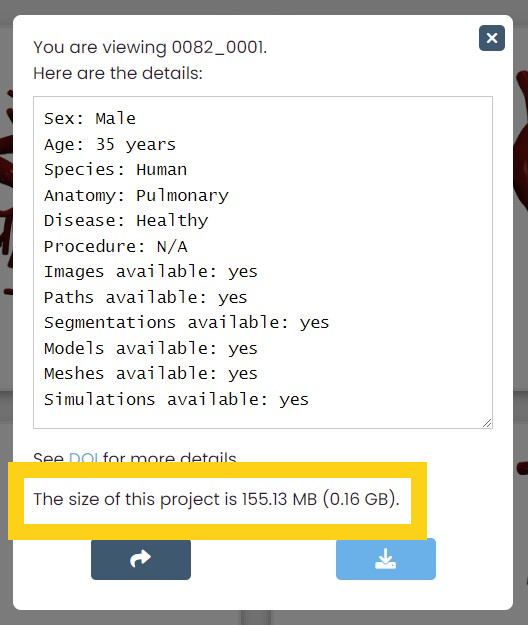
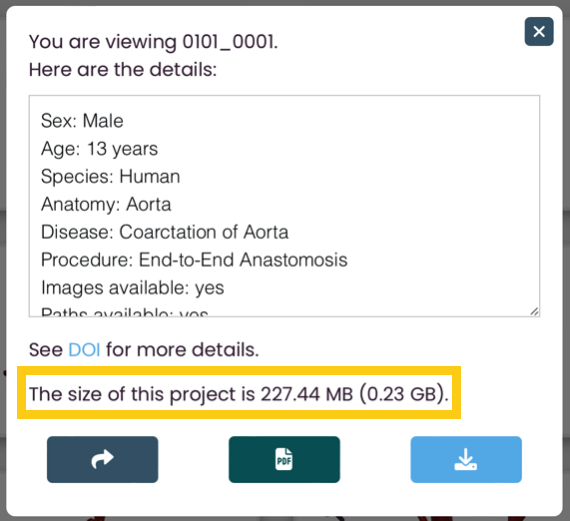
Add button for PDF download

Changed region(s): [[0.0, 0.0, 1.0, 1.0], [0.5152, 0.6142, 0.5758, 0.6449], [0.9091, 0.6756, 0.9394, 0.7063]]

diff --git a/dataset.html b/dataset.html
@@ -305,13 +305,16 @@
           <div id="modal-closure" style="margin-bottom:10px;">Placeholder</div>
           <div class="row">
             <!-- three buttons: close, download, share -->
-            <div class="col-xs-12 col-sm-6 text-center">
+            <div class="col-xs-4 col-sm-4 text-center">
               <a title = "Get Shareable Link" class="button button-modal shareableLink-button-modal"><i class="fa-solid fa-share"></i></a>
             </div>
-            <div class="col-xs-12 col-sm-6 text-center">
+            <div class="col-xs-4 col-sm-4 text-center">
+              <a title = "Download PDF" class="button button-modal pdf-button-modal"><i class="fa-solid fa-file-pdf"></i></a>
+            </div>
+            <div class="col-xs-4 col-sm-4 text-center">
               <a title = "Download Model" class="button button-modal download-button-modal"><i class="fa-solid fa-download"></i></a>
             </div>
-            <div class="col-xs-12 col-sm-6 top-right">
+            <div class="col-xs-4 col-sm-4 top-right">
               <a title = "Close" class="button close-button-modal"><i class="fa-solid fa-xmark"></i></a>
             </div>
             <!-- 6LedB9gdAAAAANK8mQLhxsR7-mpeDlxzPdm9fQkV secret key -->

diff --git a/gallerytutorial.html b/gallerytutorial.html
@@ -246,6 +246,14 @@
               alt="Image of panel highlight on confirmation message choosing type"
             />
             <p>
+              Clicking on the PDF button in the middle allows you to inspect the PDF
+              description file associated with the model.
+            </p>
+            <img
+              src="img/help/magnifyingGlassExPanelPDF.png"
+              alt="Image of panel highlight on share button"
+            />
+            <p>
               You can also click on the share icon to copy a shareable link. To
               view how to use this link, go to
               <a

diff --git a/css/style_dataset.css b/css/style_dataset.css
@@ -473,7 +473,7 @@ error msg block behavior
   margin-top:10px;
   margin-bottom:10px;
   cursor: pointer;
-  min-width: 100px;
+  width: 100px;
 }
 
 .shareableLink-button-modal {
@@ -484,6 +484,17 @@ error msg block behavior
   color: white;
   transition: 0.3s;
   background-color: var(--dark2shade);
+}
+
+.pdf-button-modal {
+  background-color: var(--applied);
+}
+
+.pdf-button-modal:hover {
+  color: white;
+  transition: 0.3s;
+  background-color: var(--midpointSelectApplied); 
+  /* text-decoration: underline !important; */
 }
 
 .download-button-modal {

diff --git a/js/buttons.js b/js/buttons.js
@@ -290,6 +290,17 @@ $('.shareableLink-button-modal').click(function() {
   informUser("Link copied");
 });
 
+//share button inside modalText
+$('.pdf-button-modal').click(function() {
+  //creates anchor tag to download
+  var a = document.createElement("a");
+  a.href = "VMR_PDFs/" + viewingModel['Name'] + ".pdf";
+  // a.setAttribute("download", viewingModel['Name']);
+  a.setAttribute("target", "_blank");
+  //simulates click
+  a.click();
+});
+
 //share-all button
 //makes a shareable link for all selected models
 $('#sharelink-all').click(function() {
